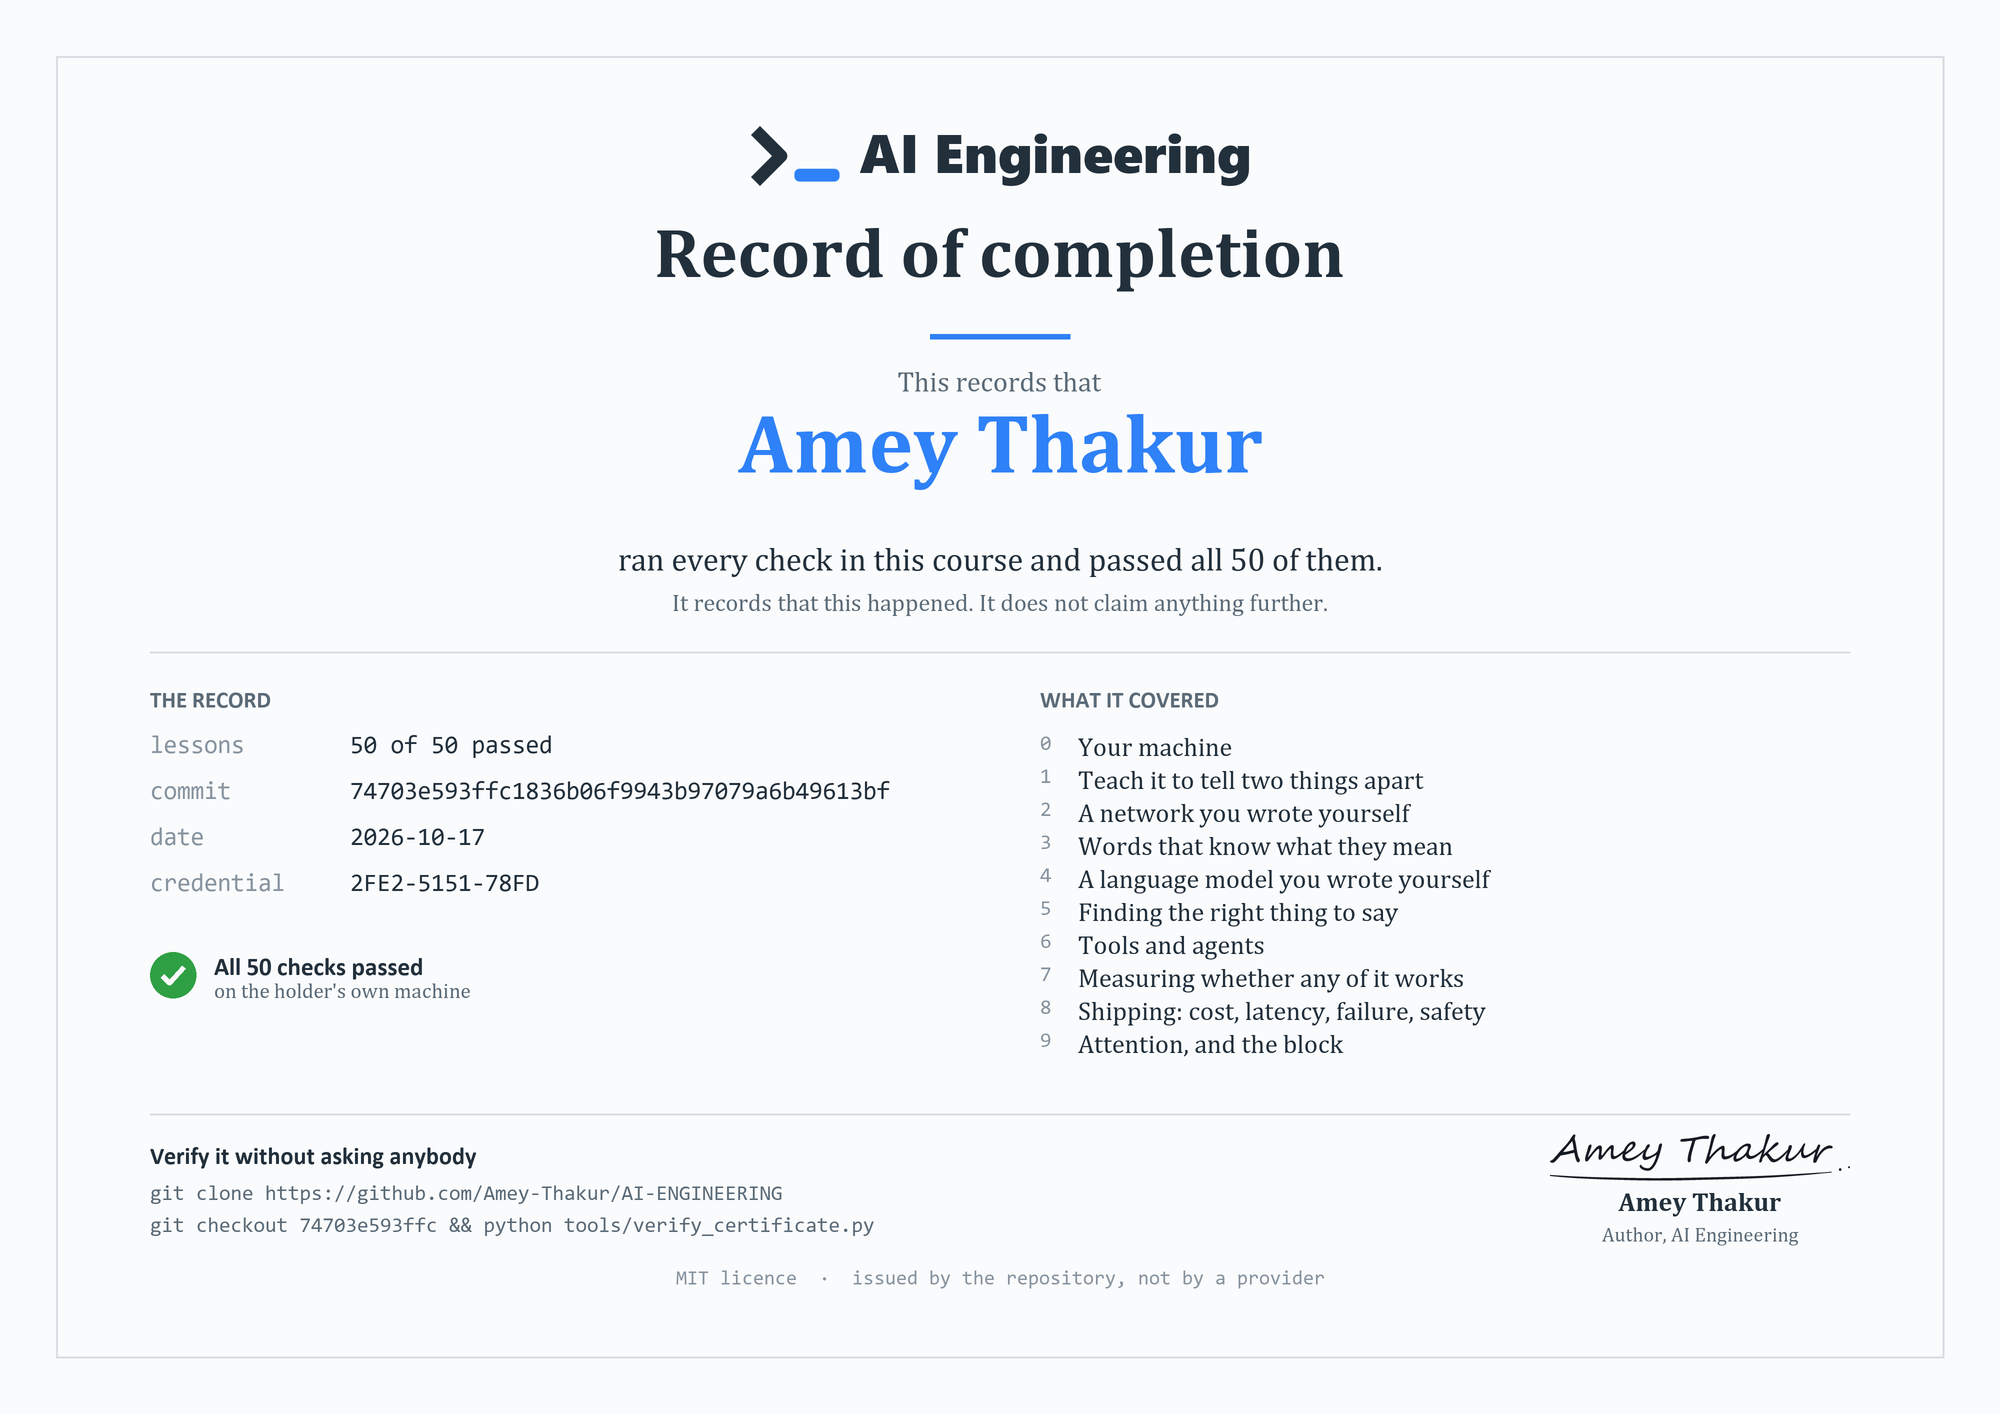
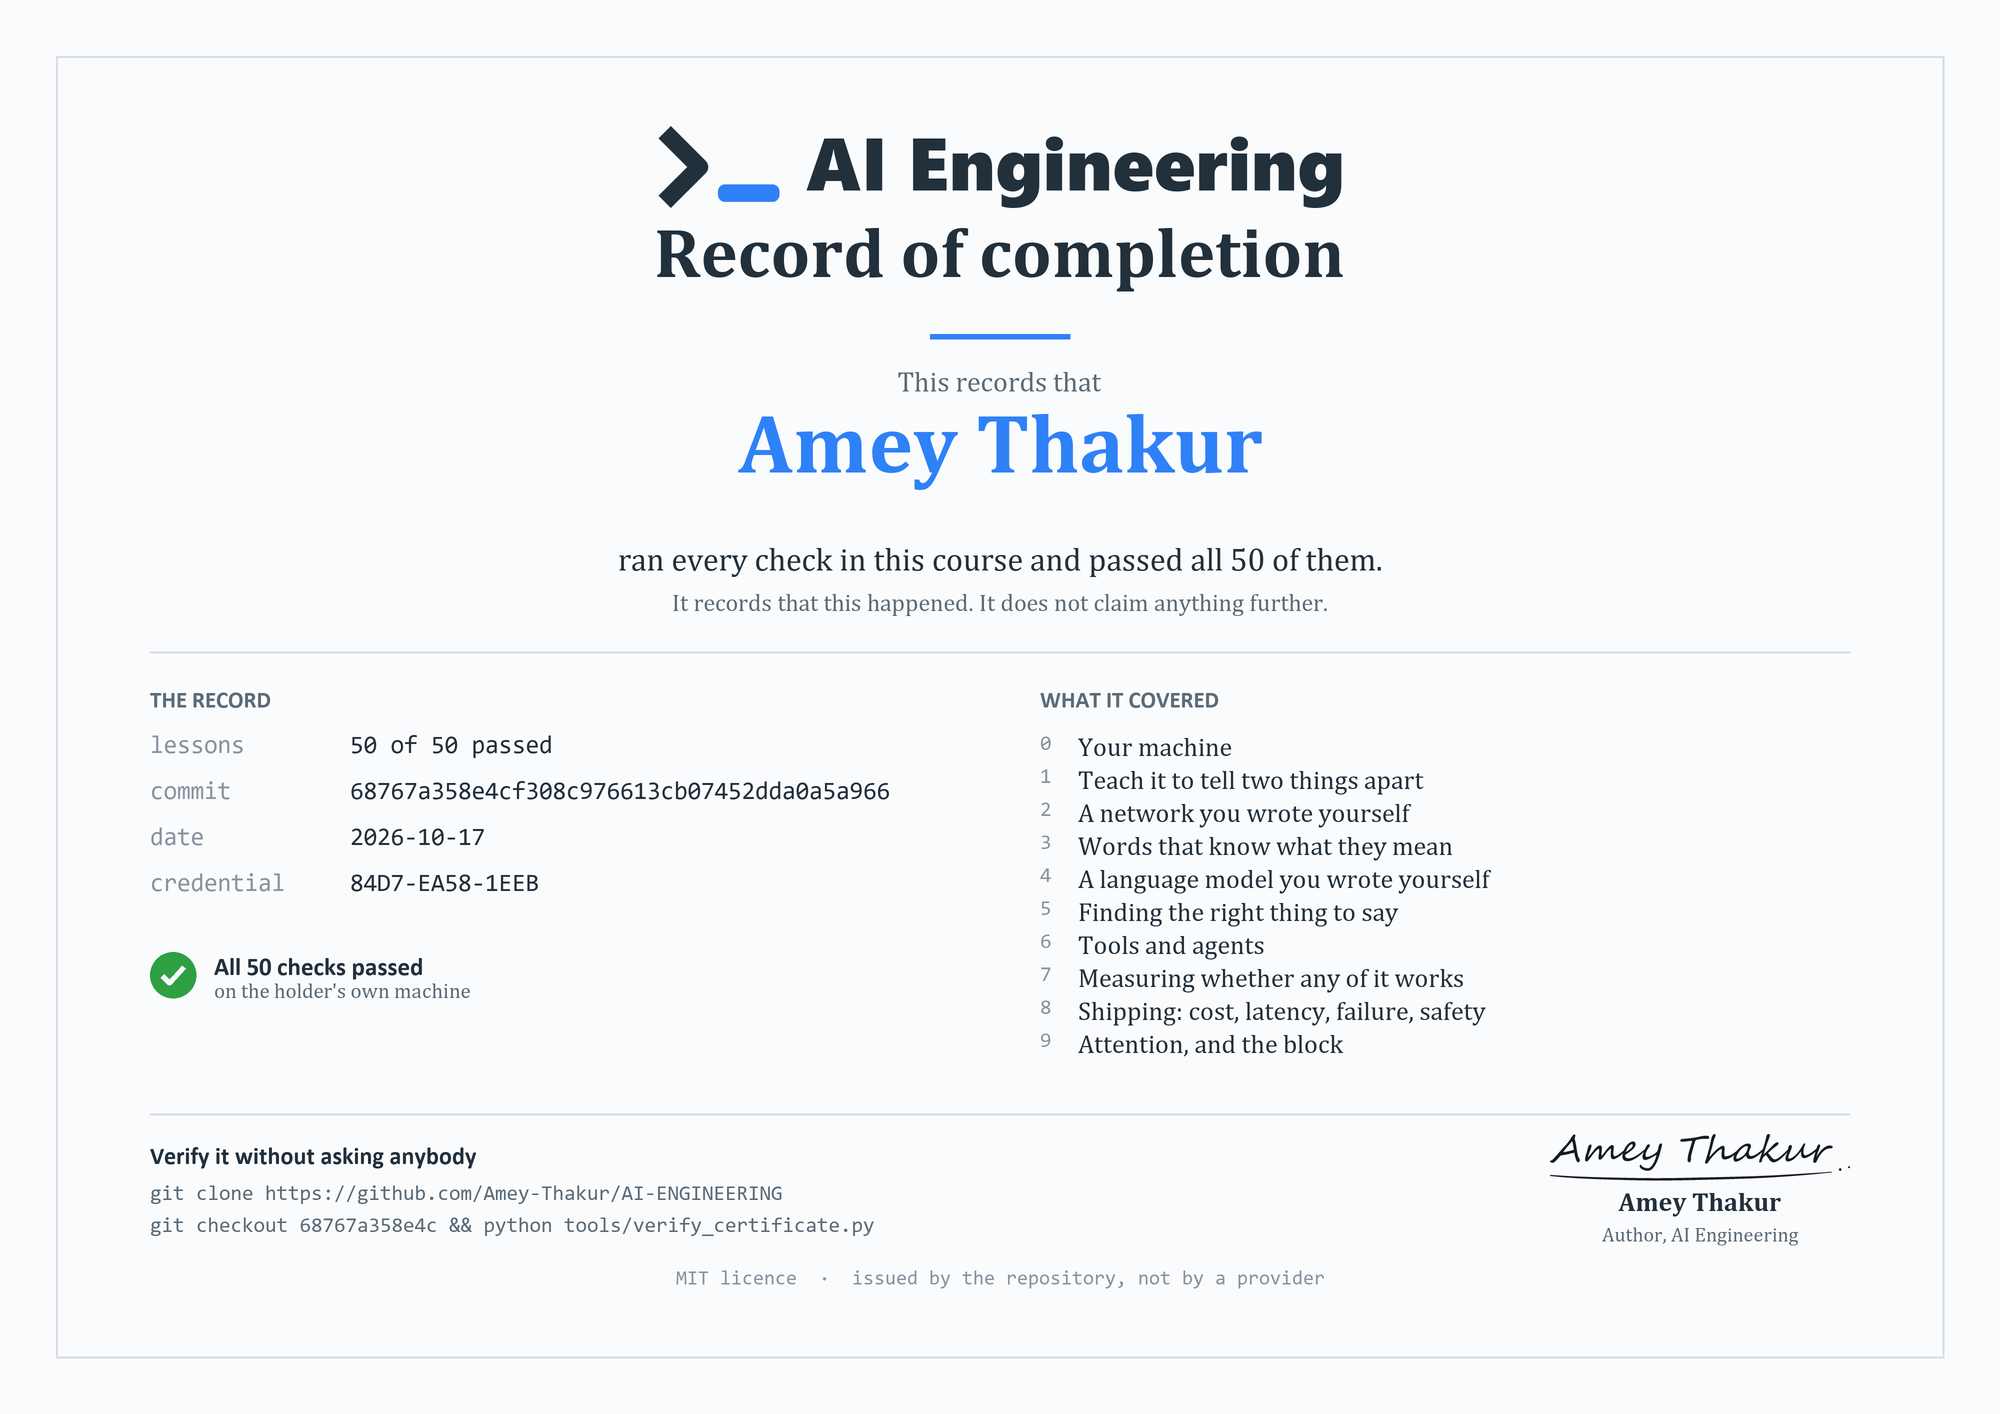
AI Engineering

diff --git a/tools/certificate.py b/tools/certificate.py
@@ -75,10 +75,21 @@ GUTTER = 80
 COLUMN = (SIZE[0] - MARGIN * 2 - GUTTER) // 2
 MIDDLE = SIZE[0] // 2
 
-#: The lockup, in the proportions the card and the README header use.
-MARK_H = 60
-MARK_GAP = 20
+#: The lockup's proportions: the mark's height and the gap to the name, both
+#: as a fraction of the name's own size. The size itself is not fixed here.
+#: It is solved for, so the lockup comes out the same width as the title
+#: underneath it however that title is set.
+MARK_RATIO = 60 / 54
+GAP_RATIO = 20 / 54
+
+#: Where the search for that size starts, and how far either side of the
+#: title's width the result may land.
 NAME_SIZE = 54
+WIDTH_WITHIN = 6
+
+#: The title, kept here because the lockup is measured against it.
+TITLE = "Record of completion"
+TITLE_SIZE = 70
 
 #: Every anchor on the page, measured rather than nudged. check_layout holds
 #: the document to the first and last of them.
@@ -120,29 +131,53 @@ def rendered(text: str, face: ImageFont.FreeTypeFont,
     return layer.crop(box) if box else layer
 
 
-def lockup_on(card: Image.Image, top: int, centred: bool = False) -> int:
-    """The mark and the name as one block. Returns the height it took.
+def lockup_parts(size: int) -> tuple[Image.Image, Image.Image, int]:
+    """The mark and the name at one size, and the width they make.
 
-    Drawn with build_mark rather than redrawn here, so the record cannot
-    drift away from the mark the rest of the repository uses. The name sits
-    on the mark's own bottom edge, which is what stops the letters looking as
-    though they float beside it.
+    Drawn with build_mark rather than redrawn here, so the record
+    cannot drift away from the mark the rest of the repository uses.
     """
-    height = MARK_H * SCALE
+    height = round(size * MARK_RATIO) * SCALE
     mark = build_mark.cropped_to_ink(
         build_mark.prompt(height * 6, height * 5, INK, ACCENT))
-    mark = mark.resize((round(mark.width * height / mark.height), height),
-                       Image.LANCZOS)
-    name = rendered("AI Engineering", font("black", NAME_SIZE), INK)
-    gap = MARK_GAP * SCALE
-    span = mark.width + gap + name.width
-    start = (round(MIDDLE * SCALE - span / 2) if centred else MARGIN * SCALE)
+    mark = mark.resize(
+        (round(mark.width * height / mark.height), height), Image.LANCZOS)
+    name = rendered("AI Engineering", font("black", size), INK)
+    gap = round(size * GAP_RATIO) * SCALE
+
+    return mark, name, mark.width + gap + name.width
+
+
+def lockup_size(target: int) -> int:
+    """The name size whose lockup comes out `target` wide.
+
+    Text width is close enough to linear in the point size to estimate
+    the answer and then walk the last pixel or two, which is quicker and
+    steadier than solving it.
+    """
+    _, _, width = lockup_parts(NAME_SIZE)
+    size = max(8, round(NAME_SIZE * target / width))
+    best, best_gap = size, None
+
+    for size in range(max(8, size - 6), size + 7):
+        _, _, width = lockup_parts(size)
+        gap = abs(width - target)
+
+        if best_gap is None or gap < best_gap:
+            best, best_gap = size, gap
+
+    return best
+
+
+def lockup_on(card: Image.Image, top: int, target: int) -> int:
+    """The mark and the name, centred, as wide as the title below."""
+    mark, name, width = lockup_parts(lockup_size(target))
+    start = round(MIDDLE * SCALE - width / 2)
     base = top * SCALE + max(mark.height, name.height)
     card.paste(mark, (start, base - mark.height), mark)
-    card.paste(name, (start + mark.width + gap, base - name.height), name)
+    card.paste(name, (start + width - name.width, base - name.height), name)
 
     return max(mark.height, name.height)
-
 
 def commit() -> str:
     """The commit the course was at when the checks were run."""
@@ -300,10 +335,9 @@ def draw(name: str, at: str, when: str, passed: int, total: int,
     pen.rectangle([56 * SCALE, 56 * SCALE, (SIZE[0] - 56) * SCALE,
                    (SIZE[1] - 56) * SCALE], outline=RULE, width=2 * SCALE)
 
-    lockup_on(card, TOP, centred=True)
-
-    centred(card, "Record of completion", font("serif bold", 70), INK,
-            TITLE_Y)
+    # The title is measured first, because the lockup is sized to match it.
+    title = centred(card, TITLE, font("serif bold", TITLE_SIZE), INK, TITLE_Y)
+    lockup_on(card, TOP, title.width)
 
     pen.rectangle([(MIDDLE - RULE_W // 2) * SCALE, RULE_Y * SCALE,
                    (MIDDLE + RULE_W // 2) * SCALE, (RULE_Y + 5) * SCALE],
@@ -439,7 +473,9 @@ def check_layout(card: Image.Image) -> None:
 
     # Every line that is meant to be centred has to actually be centred, which
     # is the whole claim the layout makes.
-    for name, top, bottom in (("the lockup", TOP, TOP + MARK_H),
+    # The lockup's height follows from the size solved for, so its band runs
+    # from the top of the content down to just above the title.
+    for name, top, bottom in (("the lockup", TOP, TITLE_Y - 16),
                               ("the title", TITLE_Y, TITLE_Y + 80),
                               ("the accent rule", RULE_Y, RULE_Y + 5),
                               ("the holder's name", HOLDER_Y, HOLDER_Y + 100),
@@ -457,6 +493,24 @@ def check_layout(card: Image.Image) -> None:
         if abs(centre - width / 2) > OFF_CENTRE:
             problems.append(f"{name} is centred on {centre:.1f}, "
                             f"not {width / 2}")
+
+    # The lockup and the title are a pair, and a pair that does not share a
+    # width reads as a label above a heading.
+    def width_of(top: int, bottom: int) -> int | None:
+        edges = [x for x in range(inset, width - inset)
+                 if any(pixels[x, y] < INKED
+                        for y in range(top, min(bottom, height - 1) + 1))]
+
+        return edges[-1] - edges[0] + 1 if edges else None
+
+    lockup_width = width_of(TOP, TITLE_Y - 16)
+    title_width = width_of(TITLE_Y, TITLE_Y + TITLE_SIZE + 20)
+
+    if lockup_width and title_width:
+        if abs(lockup_width - title_width) > WIDTH_WITHIN:
+            problems.append(f"the lockup is {lockup_width}px wide and the "
+                            f"title {title_width}px, which is more than "
+                            f"{WIDTH_WITHIN}px apart")
 
     # The seal is the only green on the page, and it has to be there.
     patch = card.convert("RGB").crop(
